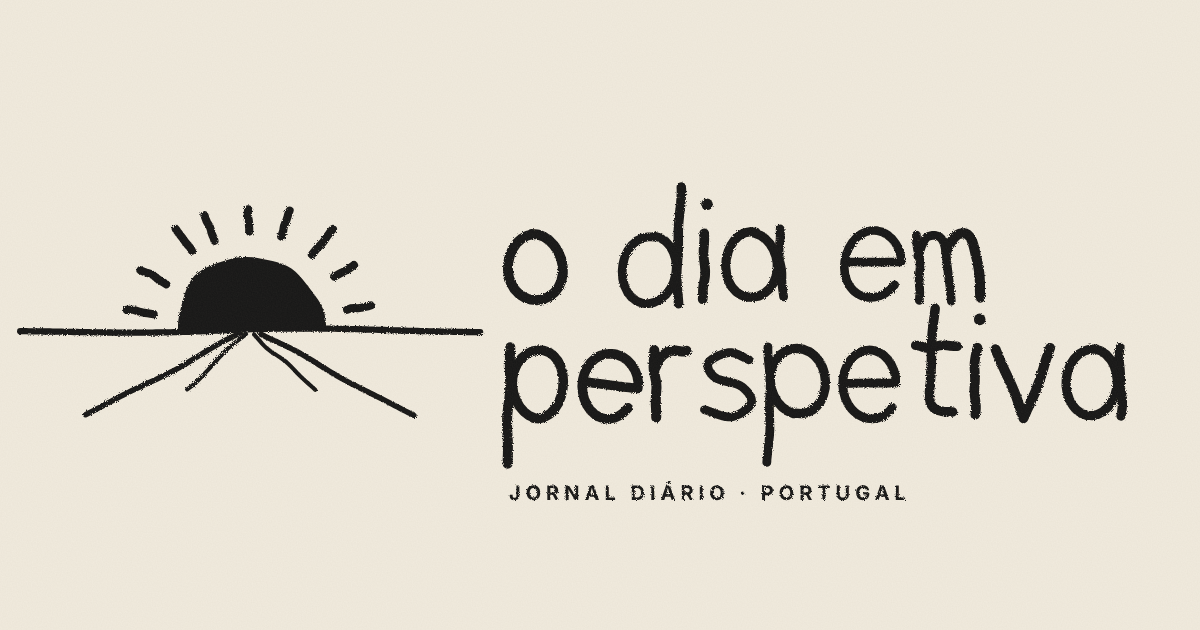
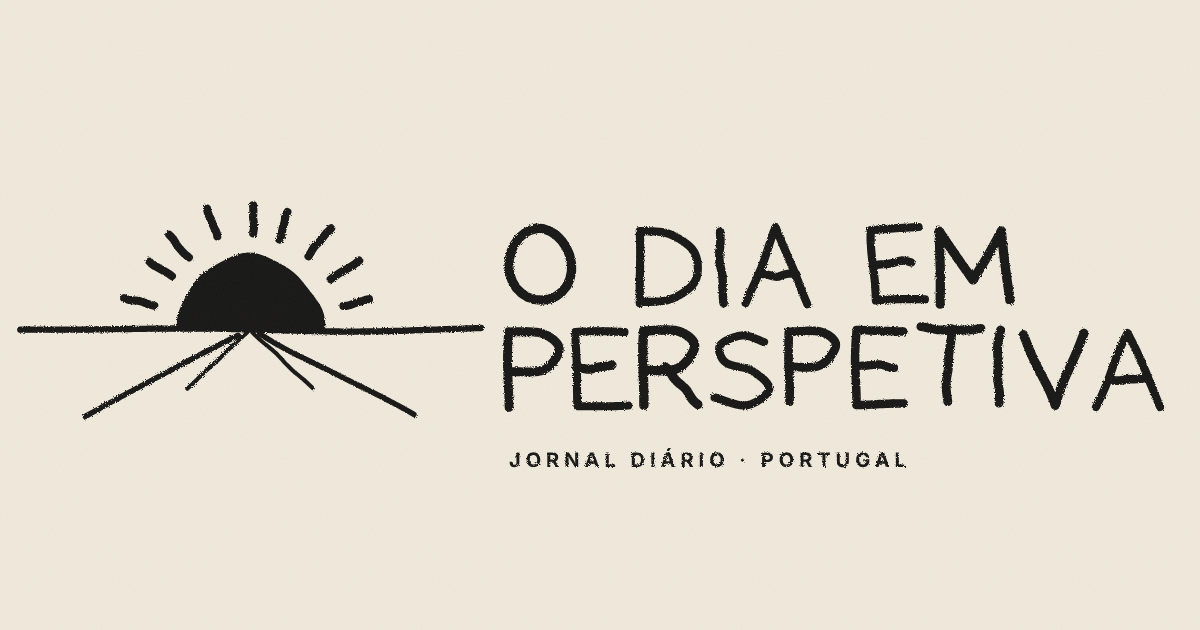
Imagem de partilha: opção C (maiúsculas desenhadas à mão)
Claude-Session: https://claude.ai/code/session_01UUAiafSzVrEKg14zcPU6BN

diff --git a/ferramentas/marca/og.py b/ferramentas/marca/og.py
@@ -58,6 +58,35 @@ def glifo(c):
     raise ValueError(c)
 
 
+def glifo_maius(c):
+    """Maiúsculas desenhadas à mão (altura das maiúsculas = 1)."""
+    if c == "O":
+        return [arco(0.48, 0.5, 0.45, 0.5, 95, 455)], 0.98
+    if c == "D":
+        return [[(0.06, 0.0), (0.06, 1.0)] + catmull([(0.06, 1.0), (0.48, 0.97), (0.82, 0.72), (0.82, 0.3), (0.48, 0.03), (0.06, 0.0)])[1:]], 0.9
+    if c == "I":
+        return [[(0.12, 1.0), (0.12, 0.0)]], 0.3
+    if c == "A":
+        return [[(0.0, 0.0), (0.42, 1.02), (0.86, 0.0)], [(0.17, 0.38), (0.68, 0.39)]], 0.88
+    if c == "E":
+        return [[(0.7, 1.0), (0.06, 1.0), (0.06, 0.0), (0.72, 0.0)], [(0.06, 0.52), (0.56, 0.53)]], 0.76
+    if c == "M":
+        return [[(0.03, 0.0), (0.09, 1.0), (0.5, 0.32), (0.91, 1.0), (0.97, 0.0)]], 1.04
+    if c == "P":
+        return [[(0.06, 0.0), (0.06, 1.0)] + catmull([(0.06, 1.0), (0.5, 0.99), (0.74, 0.78), (0.52, 0.5), (0.06, 0.49)])[1:]], 0.78
+    if c == "R":
+        return [[(0.06, 0.0), (0.06, 1.0)] + catmull([(0.06, 1.0), (0.5, 0.99), (0.74, 0.78), (0.52, 0.5), (0.06, 0.49)])[1:], [(0.36, 0.5), (0.78, 0.0)]], 0.82
+    if c == "S":
+        return [catmull([(0.74, 0.88), (0.44, 1.0), (0.12, 0.86), (0.18, 0.6), (0.55, 0.47), (0.8, 0.22), (0.48, 0.0), (0.05, 0.12)])], 0.84
+    if c == "T":
+        return [[(0.0, 1.0), (0.82, 1.01)], [(0.41, 1.0), (0.41, 0.0)]], 0.82
+    if c == "V":
+        return [[(0.0, 1.0), (0.43, 0.0), (0.86, 1.0)]], 0.86
+    if c == " ":
+        return [], 0.5
+    raise ValueError(c)
+
+
 def amostrar(pts, passo=0.04):
     out = [pts[0]]
     for a, b in zip(pts, pts[1:]):
@@ -84,8 +113,8 @@ def palavra_svg(texto, x0, base, esc, rng, largura_traco, espaco=0.12):
     """Devolve (paths, largura total em px)."""
     paths, x = [], x0
     for ch in texto:
-        tracos, w = glifo(ch)
-        rot = rng.uniform(-4, 4)
+        tracos, w = (glifo_maius(ch) if ch.isupper() or (ch == ' ' and texto.isupper()) else glifo(ch))
+        rot = rng.uniform(-3, 3) if texto.isupper() else rng.uniform(-4, 4)
         dy = rng.uniform(-0.05, 0.05)
         cx = x + w * esc / 2
         for tr in tracos:
@@ -169,6 +198,26 @@ def svg_variante(var, seed=7):
         p2, _ = palavra_svg("perspetiva", x0, 300 + esc * 1.75, esc, random.Random(seed + 3), esc * 0.14)
         el += p1 + p2
         sub = f'<text x="{x0 + 4}" y="{300 + esc * 1.75 + esc * 1.25:.0f}" font-family="Inter" font-weight="700" font-size="20" letter-spacing="5" fill="#161514">JORNAL DIÁRIO · PORTUGAL</text>'
+    if var == "C":
+        el = marca(250, 330, 74, rng)
+        x0 = 505
+        esc = min(118, (1135 - x0) / largura("PERSPETIVA", 1))
+        p1, _ = palavra_svg("O DIA EM", x0, 300, esc, random.Random(seed + 2), esc * 0.12, 0.16)
+        p2, _ = palavra_svg("PERSPETIVA", x0, 300 + esc * 1.45, esc, random.Random(seed + 3), esc * 0.12, 0.16)
+        el += p1 + p2
+        sub = f'<text x="{x0 + 4}" y="{300 + esc * 1.45 + esc * 0.85:.0f}" font-family="Inter" font-weight="700" font-size="20" letter-spacing="5" fill="#161514">JORNAL DIÁRIO · PORTUGAL</text>'
+    if var == "D":
+        el = []
+        e1 = 64
+        w1 = largura("O DIA EM", e1)
+        p1, _ = palavra_svg("O DIA EM", (W - w1) / 2, 128, e1, random.Random(seed + 4), e1 * 0.13, 0.18)
+        el += p1
+        el += marca(600, 300, 62, rng)
+        e2 = min(120, 960 / largura("PERSPETIVA", 1))
+        w2 = largura("PERSPETIVA", e2)
+        p2, _ = palavra_svg("PERSPETIVA", (W - w2) / 2, 520, e2, random.Random(seed + 5), e2 * 0.12, 0.16)
+        el += p2
+        sub = '<text x="600" y="584" text-anchor="middle" font-family="Inter" font-weight="700" font-size="19" letter-spacing="6" fill="#161514">JORNAL DIÁRIO · PORTUGAL</text>'
     corpo = "".join(el)
     return (f'<svg xmlns="http://www.w3.org/2000/svg" width="{W}" height="{H}" viewBox="0 0 {W} {H}"><defs>{filtro}</defs>'
             f'<rect width="{W}" height="{H}" fill="{PAPEL}"/><g filter="url(#tinta)">{corpo}{sub}</g>'
@@ -177,5 +226,5 @@ def svg_variante(var, seed=7):
 
 if __name__ == "__main__":
     out = Path(sys.argv[1])
-    for v in ("A", "B"):
+    for v in ("A", "B", "C", "D"):
         (out / f"og-{v}.svg").write_text(svg_variante(v))
